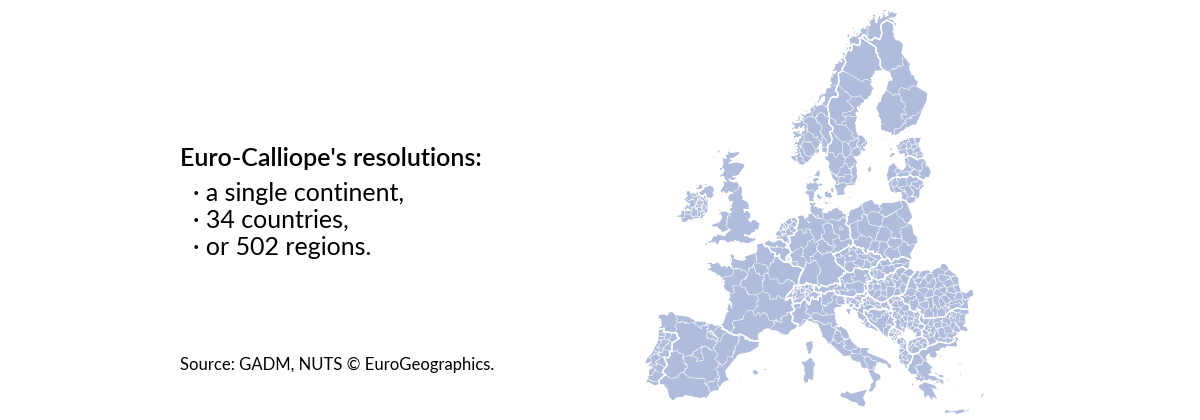
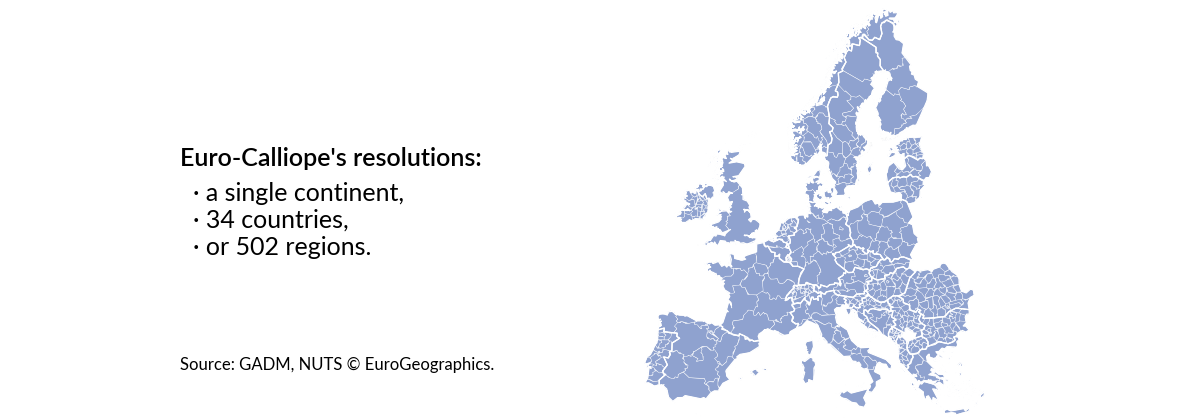
Remove seaborn dependency

Changed region(s): [[0.5242, 0.031, 0.8325, 0.9595], [0.6475, 0.8667, 0.6783, 0.8976]]

diff --git a/scripts/vis/spatial_scope_and_resolutions.py b/scripts/vis/spatial_scope_and_resolutions.py
@@ -2,12 +2,10 @@ from textwrap import dedent
 
 import geopandas as gpd
 import matplotlib.pyplot as plt
-import seaborn as sns
 
 from eurocalliopelib.geo import EPSG3035
 
-BLUE = "#4F6DB8"
-LIGHT_BLUE = sns.light_palette(BLUE, as_cmap=False)[2]
+LIGHT_BLUE = "#8fa2cf"
 EDGE_WIDTH = 0.2
 WHITE = "white"
 
@@ -28,7 +26,6 @@ def spatial_scope_and_resolutions(path_to_regional_units, path_to_national_units
     axes = fig.subplots(1, 4, gridspec_kw={'width_ratios': [0.15, 0.35, 0.35, 0.15]})
     for ax in axes:
         ax.axis("off")
-    sns.despine(fig, top=True, bottom=True, left=True, right=True)
 
     # plot
     _plot_text(national, regional, ax=axes[1])
@@ -79,7 +76,6 @@ def _plot_map(data, ax, edge_width, face_color=LIGHT_BLUE, edge_color=WHITE):
     )
     ax.set_xlim(MAP_MIN_X, MAP_MAX_X)
     ax.set_ylim(MAP_MIN_Y, MAP_MAX_Y)
-    sns.despine(top=True, bottom=True, left=True, right=True)
 
 
 if __name__ == "__main__":
